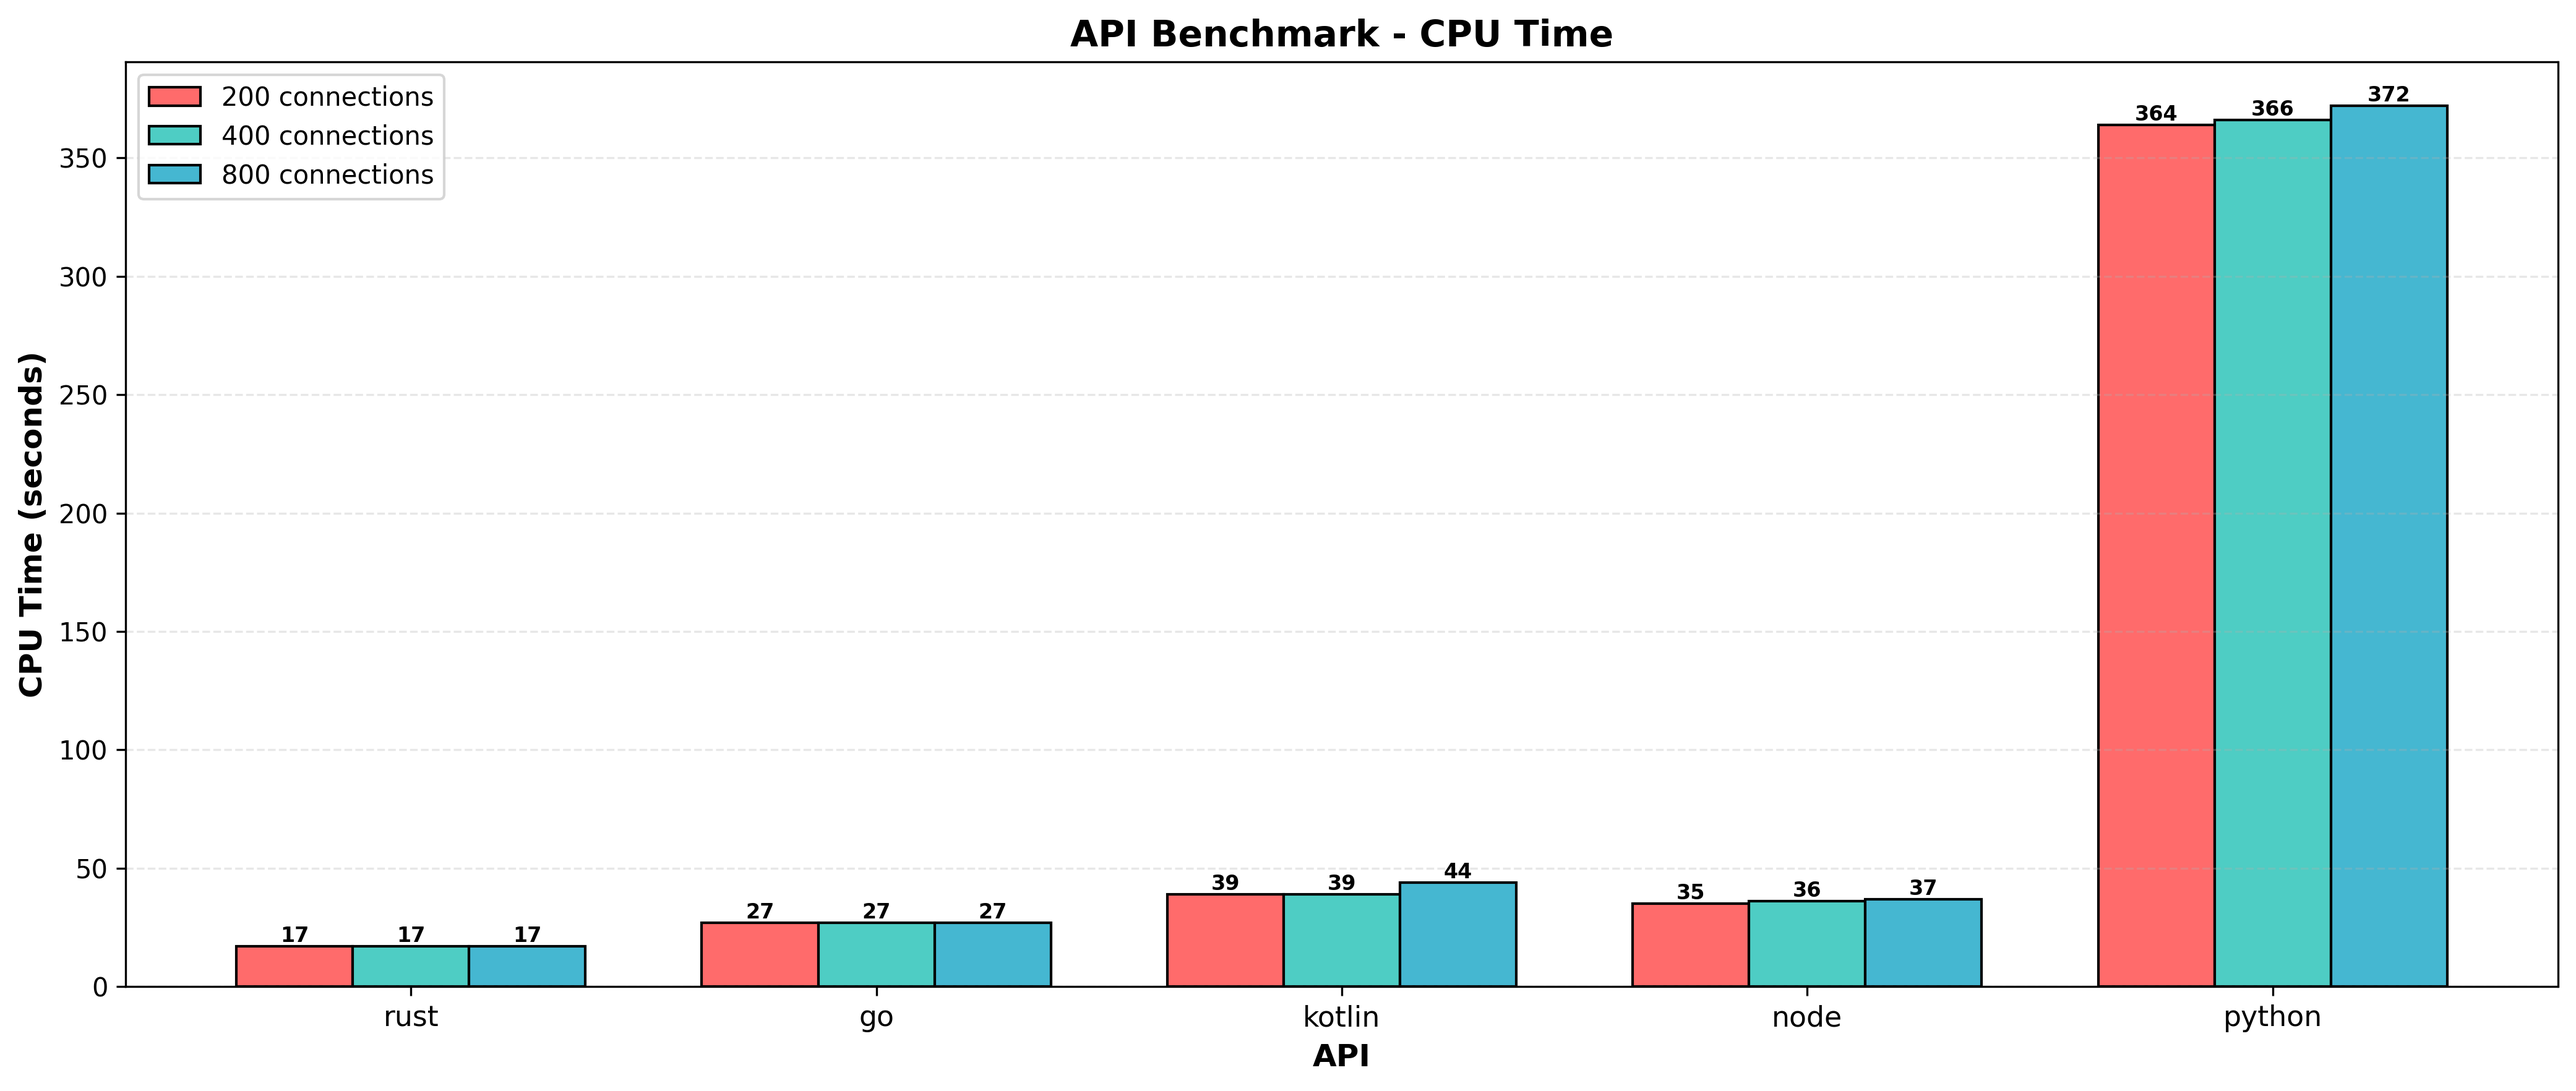
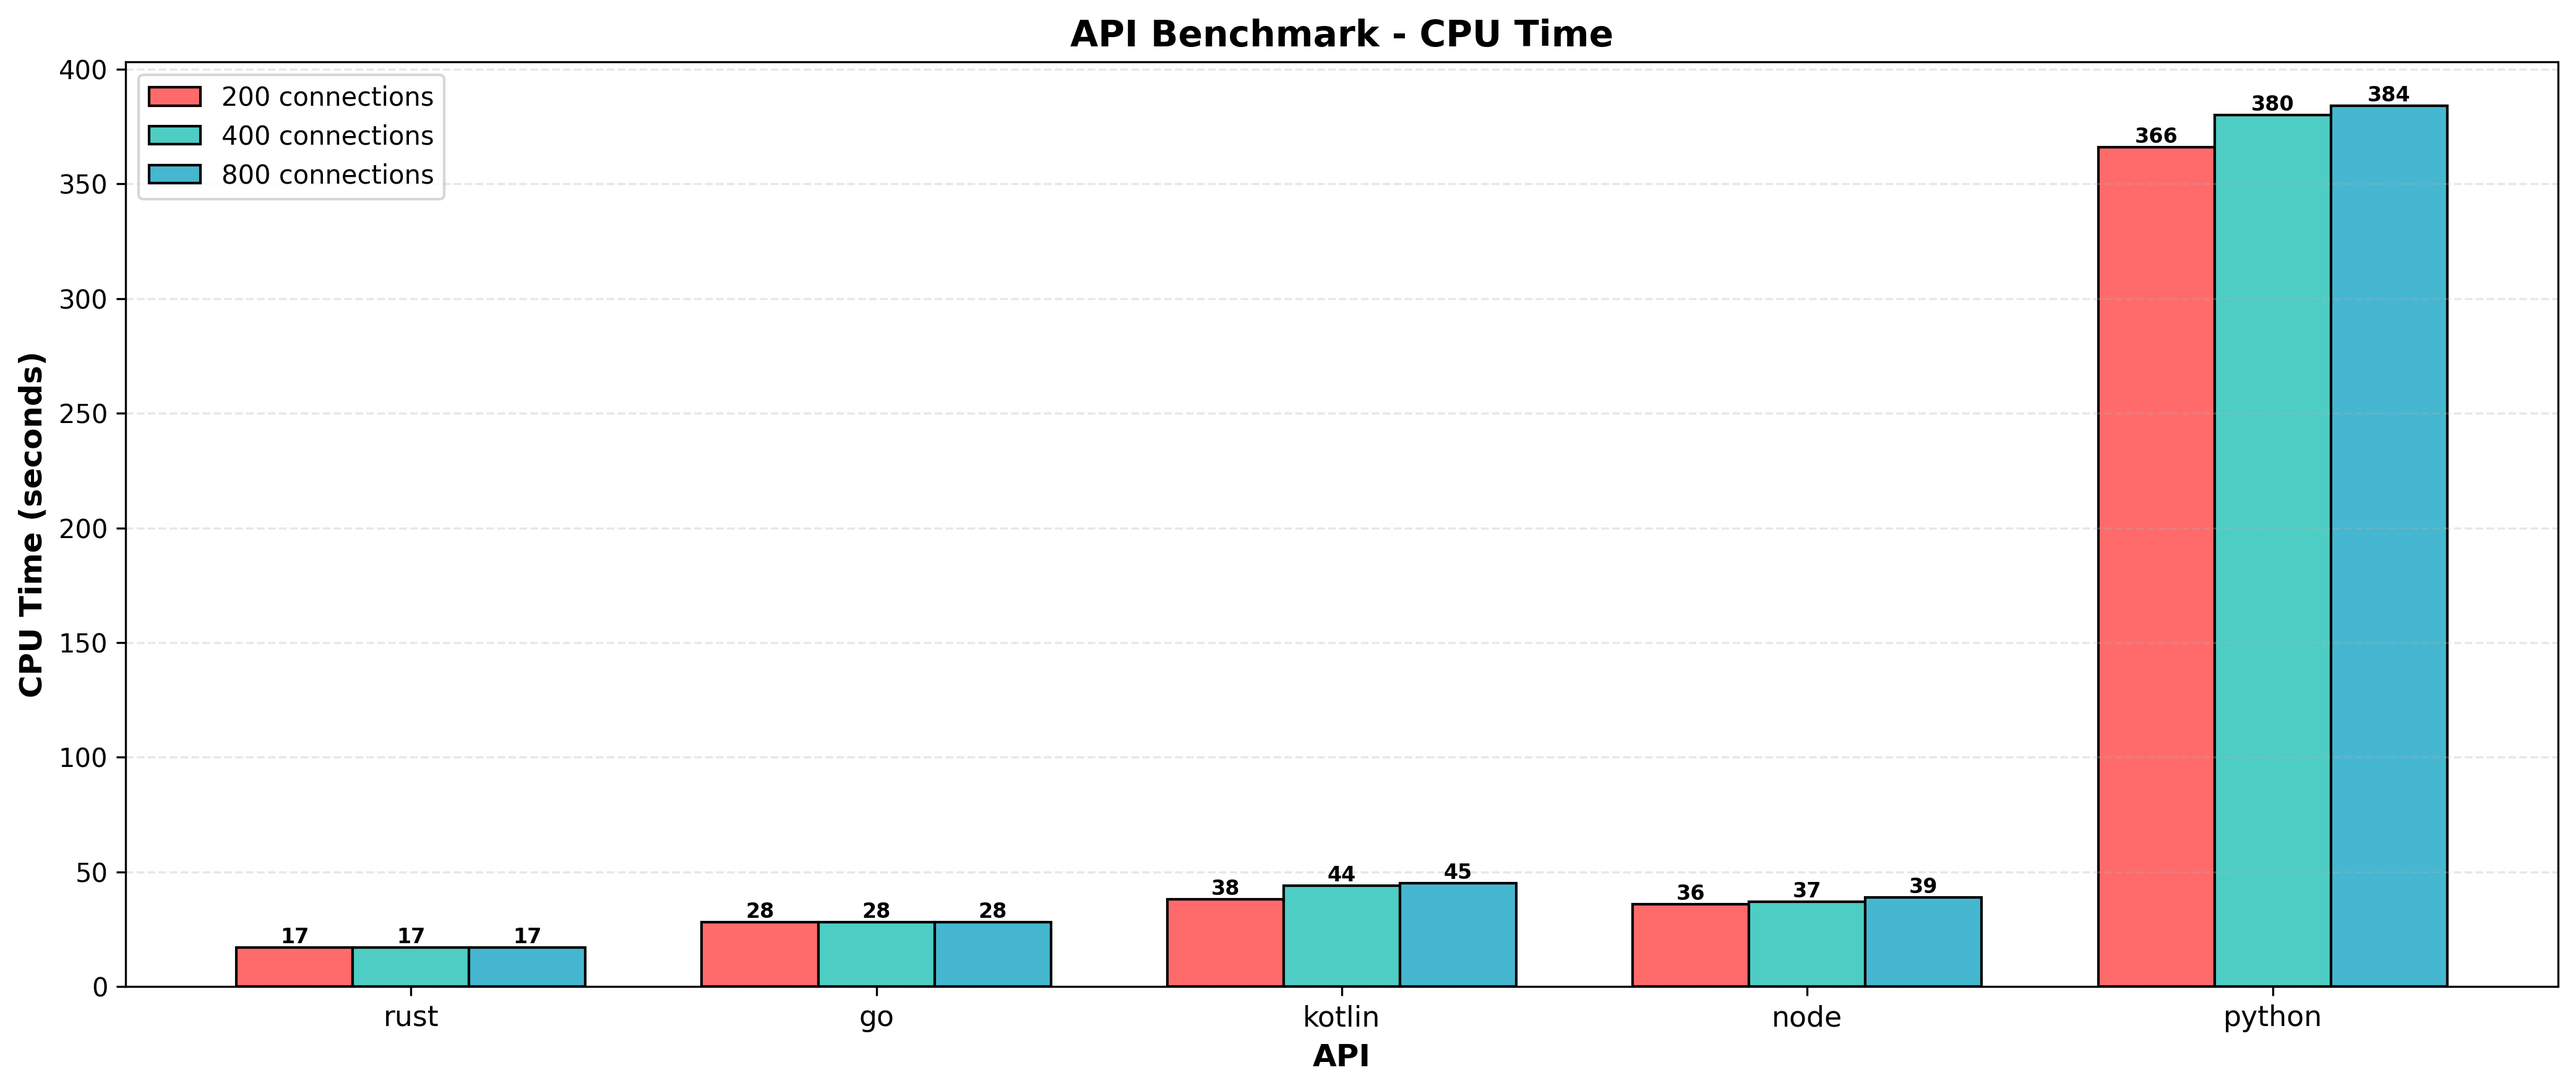
results from github actions autocommit

diff --git a/results/raw.md b/results/raw.md
@@ -1,6 +1,6 @@
 # Results
 ## Timestamp
-Sun Jan 11 23:45:37 UTC 2026
+Tue Jan 13 11:01:09 UTC 2026
 ## Hardware Info
 | CPU Model | Num CPUs | Memory |
 | --------- | -------- | ------ |
@@ -9,18 +9,18 @@ Sun Jan 11 23:45:37 UTC 2026
 ## Benchmarks of 1 Million Requests
 | Test Name | HTTP Conns | Success Rate | Test Seconds | Requests per Second | P50 Millis | P99 Millis | P99.9 Millis | API Memory MB | API CPU Time | API Threads | API Processes |
 | --------- | ---------- | ------------ | ------------ | ------------------- | ---------- | ---------- | ------------ | ------------- | ------------ | ----------- | ------------- |
-| rust | 200 | 100.0% | 8.9 | 111126.4 | 1.6448 | 4.6540 | 6.2959 | 8.6 | 00:00:17 | 5 | 1 |
-| rust | 400 | 100.0% | 8.6 | 116080.7 | 3.2408 | 7.6019 | 10.0539 | 12.8 | 00:00:17 | 5 | 1 |
-| rust | 800 | 100.0% | 8.7 | 114460.2 | 6.8369 | 11.5580 | 16.8850 | 22.6 | 00:00:17 | 5 | 1 |
-| go | 200 | 100.0% | 11.8 | 84271.8 | 1.8776 | 7.3581 | 10.3664 | 17.4 | 00:00:27 | 12 | 1 |
-| go | 400 | 100.0% | 11.4 | 87438.5 | 3.8637 | 13.6286 | 18.8302 | 24.6 | 00:00:27 | 11 | 1 |
-| go | 800 | 100.0% | 11.5 | 86926.3 | 8.2185 | 25.6902 | 38.9902 | 37.3 | 00:00:27 | 11 | 1 |
-| kotlin | 200 | 100.0% | 14.4 | 69447.0 | 2.0136 | 11.6052 | 34.3200 | 508.1 | 00:00:39 | 30 | 1 |
-| kotlin | 400 | 100.0% | 14.3 | 69510.5 | 4.6674 | 21.1400 | 59.8815 | 510.3 | 00:00:39 | 30 | 1 |
-| kotlin | 800 | 100.0% | 15.7 | 63540.8 | 10.4857 | 43.3470 | 100.3568 | 533.8 | 00:00:44 | 30 | 1 |
-| node | 200 | 100.0% | 34.9 | 28568.5 | 6.0861 | 9.3069 | 11.4021 | 106.8 | 00:00:35 | 7 | 1 |
-| node | 400 | 100.0% | 35.7 | 27999.9 | 12.1977 | 19.5664 | 23.5125 | 139.1 | 00:00:36 | 7 | 1 |
-| node | 800 | 100.0% | 37.3 | 26809.4 | 26.8991 | 41.7021 | 55.8942 | 149.1 | 00:00:37 | 7 | 1 |
-| python | 200 | 100.0% | 101.7 | 9849.1 | 16.9376 | 47.3522 | 52.2239 | 134.3 | 00:06:04 | 5 | 5 |
-| python | 400 | 100.0% | 101.1 | 9886.7 | 35.0874 | 79.0410 | 83.4200 | 136.5 | 00:06:06 | 5 | 5 |
-| python | 800 | 100.0% | 102.7 | 9724.5 | 90.9946 | 133.0176 | 145.8130 | 142.4 | 00:06:12 | 5 | 5 |
+| rust | 200 | 100.0% | 8.7 | 113816.6 | 1.6257 | 4.4864 | 5.9900 | 8.4 | 00:00:17 | 5 | 1 |
+| rust | 400 | 100.0% | 8.7 | 114473.3 | 3.3178 | 7.1015 | 9.6258 | 13.3 | 00:00:17 | 5 | 1 |
+| rust | 800 | 100.0% | 9.1 | 109904.8 | 7.1485 | 11.8434 | 18.7983 | 21.9 | 00:00:17 | 5 | 1 |
+| go | 200 | 100.0% | 12.0 | 82891.9 | 1.8941 | 7.6307 | 10.4937 | 17.3 | 00:00:28 | 11 | 1 |
+| go | 400 | 100.0% | 11.7 | 84898.8 | 3.9973 | 13.9546 | 19.3503 | 24.1 | 00:00:28 | 12 | 1 |
+| go | 800 | 100.0% | 12.1 | 82717.5 | 8.6851 | 26.6053 | 39.7160 | 37.1 | 00:00:28 | 11 | 1 |
+| kotlin | 200 | 100.0% | 14.1 | 70540.0 | 1.9826 | 12.2611 | 35.5093 | 506.2 | 00:00:38 | 30 | 1 |
+| kotlin | 400 | 100.0% | 15.8 | 63360.9 | 5.3209 | 22.3499 | 73.0309 | 535.7 | 00:00:44 | 30 | 1 |
+| kotlin | 800 | 100.0% | 16.1 | 61986.6 | 10.5105 | 44.5228 | 112.9618 | 749.2 | 00:00:45 | 30 | 1 |
+| node | 200 | 100.0% | 36.3 | 27495.3 | 6.2200 | 10.6762 | 11.9962 | 106.0 | 00:00:36 | 7 | 1 |
+| node | 400 | 100.0% | 36.6 | 27266.0 | 12.7702 | 20.8566 | 25.9705 | 138.3 | 00:00:37 | 7 | 1 |
+| node | 800 | 100.0% | 39.4 | 25348.8 | 27.5537 | 42.9496 | 47.5898 | 148.5 | 00:00:39 | 7 | 1 |
+| python | 200 | 100.0% | 101.9 | 9891.6 | 17.5673 | 43.8207 | 47.8247 | 134.4 | 00:06:06 | 5 | 5 |
+| python | 400 | 100.0% | 105.2 | 9492.7 | 41.3754 | 63.0691 | 72.4808 | 134.9 | 00:06:20 | 5 | 5 |
+| python | 800 | 100.0% | 106.3 | 9409.2 | 74.0041 | 156.1611 | 170.7898 | 143.7 | 00:06:24 | 5 | 5 |

diff --git a/results/latest.md b/results/latest.md
@@ -1,6 +1,6 @@
 # Latest Results
 
-Timestamp: `Sun Jan 11 23:45:37 UTC 2026`
+Timestamp: `Tue Jan 13 11:01:09 UTC 2026`
 
 ## Requests Per Second
 ![Requests Per Second](rps.png)
